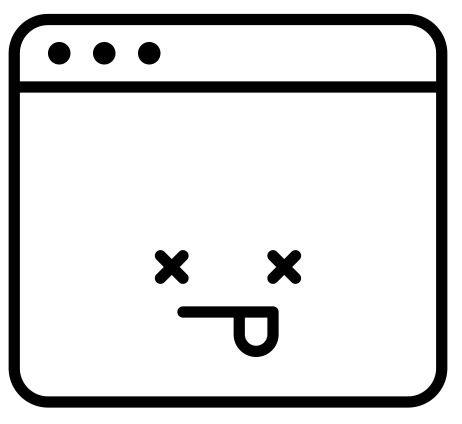
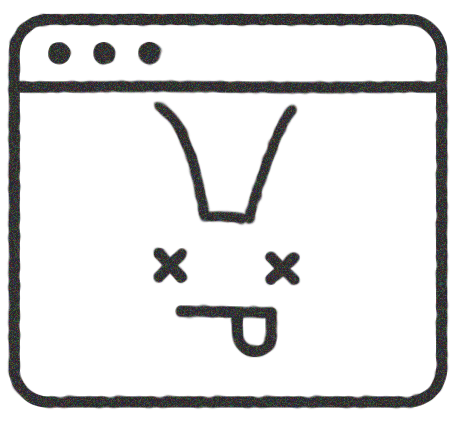
제이쿼리 추가,404 추가

diff --git a/gamto/bin/main/static/error/404.html b/gamto/bin/main/static/error/404.html
@@ -1,0 +1,78 @@
+<!DOCTYPE html>
+<html>
+<head>
+<meta charset="UTF-8">
+<title>감토 | 신개념 독서토론</title>
+    <link
+      href="https://cdn.jsdelivr.net/npm/bootstrap@5.2.3/dist/css/bootstrap.min.css"
+      rel="stylesheet"/>
+    <style type="text/css">
+      @font-face {
+        font-family: "116angmuburi";
+        src: url("https://cdn.jsdelivr.net/gh/projectnoonnu/noonfonts_six@1.0/116angmuburi.woff")
+          format("woff");
+        font-weight: normal;
+        font-style: normal;
+      }
+      @font-face {
+        font-family: "NanumSquareNeo-Variable";
+        src: url("https://cdn.jsdelivr.net/gh/projectnoonnu/noonfonts_11-01@1.0/NanumSquareNeo-Variable.woff2")
+          format("woff2");
+        font-weight: normal;
+        font-style: normal;
+      }
+      body {
+        background-color: rgb(241, 240, 232);
+        font-family: "NanumSquareNeo-Variable";
+        color: #303030;
+      }
+      body > div {
+        padding: 0 23px;
+        position: relative;
+        top: 200px;
+        left: 50%;
+        transform: translateX(-50%);
+        display: inline-grid;
+        grid-template-areas: "img div";
+      }
+      body > div > div {
+        margin: auto 5rem;
+      }
+      div > div > span {
+        font-size: 7rem;
+        font-weight: 700;
+        font-family: "116angmuburi";
+      }
+      div > div > h1 {
+        font-weight:bold;
+        font-size: 3rem;
+        font-family: "116angmuburi";
+      }
+      @media (max-width: 1024px) {
+        img{
+          margin: 0 auto;
+        }
+        body > div {
+          top: 5rem;
+          grid-template-areas: "img" "div";
+        }
+      }
+    </style>
+  </head>
+  <body>
+    <div>
+      <img src="/img/error.png" alt="x모양의 눈이 달린 윈도우창" />
+      <div>
+        <span>404 ! </span>
+        <h1>페이지가 존재하지 않아요.</h1>
+        <p>
+          요청하신 페이지는 존재하지 않은 페이지거나, 사라진 페이지에요.<br />입력하신
+          주소를 다시 확인해주세요. :)
+        </p>
+        <button onclick="location='/'" class="btn btn-warning">
+          메인으로 돌아가기
+        </button>
+      </div>
+    </div>
+</body>
+</html>

diff --git a/gamto/src/main/resources/static/error/404.html b/gamto/src/main/resources/static/error/404.html
@@ -1,0 +1,78 @@
+<!DOCTYPE html>
+<html>
+<head>
+<meta charset="UTF-8">
+<title>감토 | 신개념 독서토론</title>
+    <link
+      href="https://cdn.jsdelivr.net/npm/bootstrap@5.2.3/dist/css/bootstrap.min.css"
+      rel="stylesheet"/>
+    <style type="text/css">
+      @font-face {
+        font-family: "116angmuburi";
+        src: url("https://cdn.jsdelivr.net/gh/projectnoonnu/noonfonts_six@1.0/116angmuburi.woff")
+          format("woff");
+        font-weight: normal;
+        font-style: normal;
+      }
+      @font-face {
+        font-family: "NanumSquareNeo-Variable";
+        src: url("https://cdn.jsdelivr.net/gh/projectnoonnu/noonfonts_11-01@1.0/NanumSquareNeo-Variable.woff2")
+          format("woff2");
+        font-weight: normal;
+        font-style: normal;
+      }
+      body {
+        background-color: rgb(241, 240, 232);
+        font-family: "NanumSquareNeo-Variable";
+        color: #303030;
+      }
+      body > div {
+        padding: 0 23px;
+        position: relative;
+        top: 200px;
+        left: 50%;
+        transform: translateX(-50%);
+        display: inline-grid;
+        grid-template-areas: "img div";
+      }
+      body > div > div {
+        margin: auto 5rem;
+      }
+      div > div > span {
+        font-size: 7rem;
+        font-weight: 700;
+        font-family: "116angmuburi";
+      }
+      div > div > h1 {
+        font-weight:bold;
+        font-size: 3rem;
+        font-family: "116angmuburi";
+      }
+      @media (max-width: 1024px) {
+        img{
+          margin: 0 auto;
+        }
+        body > div {
+          top: 5rem;
+          grid-template-areas: "img" "div";
+        }
+      }
+    </style>
+  </head>
+  <body>
+    <div>
+      <img src="/img/error.png" alt="x모양의 눈이 달린 윈도우창" />
+      <div>
+        <span>404 ! </span>
+        <h1>페이지가 존재하지 않아요.</h1>
+        <p>
+          요청하신 페이지는 존재하지 않은 페이지거나, 사라진 페이지에요.<br />입력하신
+          주소를 다시 확인해주세요. :)
+        </p>
+        <button onclick="location='/'" class="btn btn-warning">
+          메인으로 돌아가기
+        </button>
+      </div>
+    </div>
+</body>
+</html>

diff --git a/gamto/bin/main/static/css/HnF.css b/gamto/bin/main/static/css/HnF.css
@@ -39,7 +39,6 @@ body {
 
 header {
   padding-top: 3rem;
-  position: fixed;
   width: 100%;
 }
 header > div {

diff --git a/gamto/src/main/resources/static/css/HnF.css b/gamto/src/main/resources/static/css/HnF.css
@@ -39,7 +39,6 @@ body {
 
 header {
   padding-top: 3rem;
-  position: fixed;
   width: 100%;
 }
 header > div {
